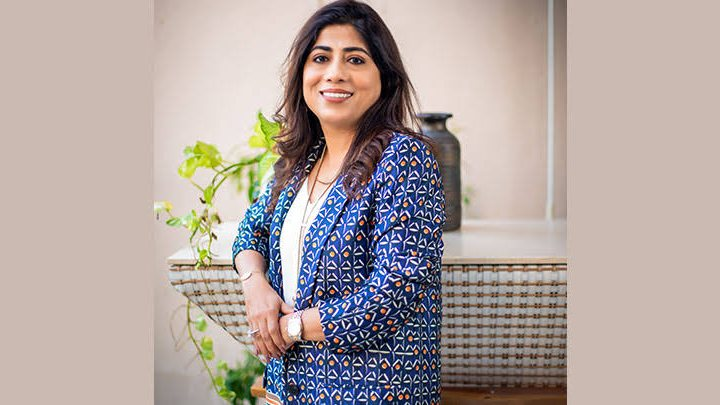
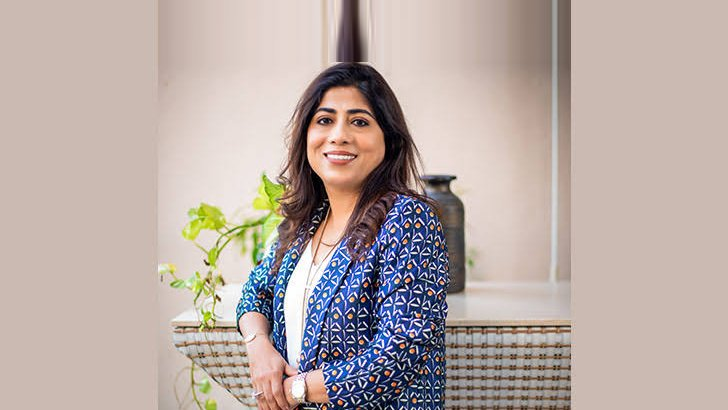
feat(creators): seven celebrity portraits; recrop three campaign images
Abhishek Kumar, Sonu Sood, Bella, Sanjay Dutt, Yuvika Chaudhary, Prince Narula and Samarth Jurel now have photos — 23 of 31 creators.

Shaily's hair was already touching the top edge of the source, so no crop could recover it; the plain background is extended upward to give her headroom instead. Tisca's window now holds both her face and the Sotrue tube in her hand rather than one or the other, and Fixderma takes its new artwork.

Claude-Session: https://claude.ai/code/session_01KhrxUPJHszBzbMzQvVh94N

diff --git a/lib/content.ts b/lib/content.ts
@@ -595,36 +595,43 @@ const realCreators: Creator[] = [
     name: "Abhishek Kumar",
     role: "Talent partnership",
     socials: [{ label: "Instagram", href: ig("aebyborntoshine") }],
+    image: "/creators/abhishek-kumar.jpg",
   },
   {
     name: "Samarth Jurel",
     role: "Talent partnership",
     socials: [{ label: "Instagram", href: ig("samarthjurel") }],
+    image: "/creators/samarth-jurel.jpg",
   },
   {
     name: "Prince Narula",
     role: "Talent partnership",
     socials: [{ label: "Instagram", href: ig("princenarula") }],
+    image: "/creators/prince-narula.jpg",
   },
   {
     name: "Yuvika Chaudhary",
     role: "Talent partnership",
     socials: [{ label: "Instagram", href: ig("yuvikachaudhary") }],
+    image: "/creators/yuvika-chaudhary.jpg",
   },
   {
     name: "Sanjay Dutt",
     role: "Talent partnership",
     socials: [],
+    image: "/creators/sanjay-dutt.jpg",
   },
   {
     name: "Sonu Sood",
     role: "Talent partnership",
     socials: [],
+    image: "/creators/sonu-sood.jpg",
   },
   {
     name: "Bella",
     role: "Talent partnership",
     socials: [],
+    image: "/creators/bella.jpg",
   },
   {
     name: "Bali",
